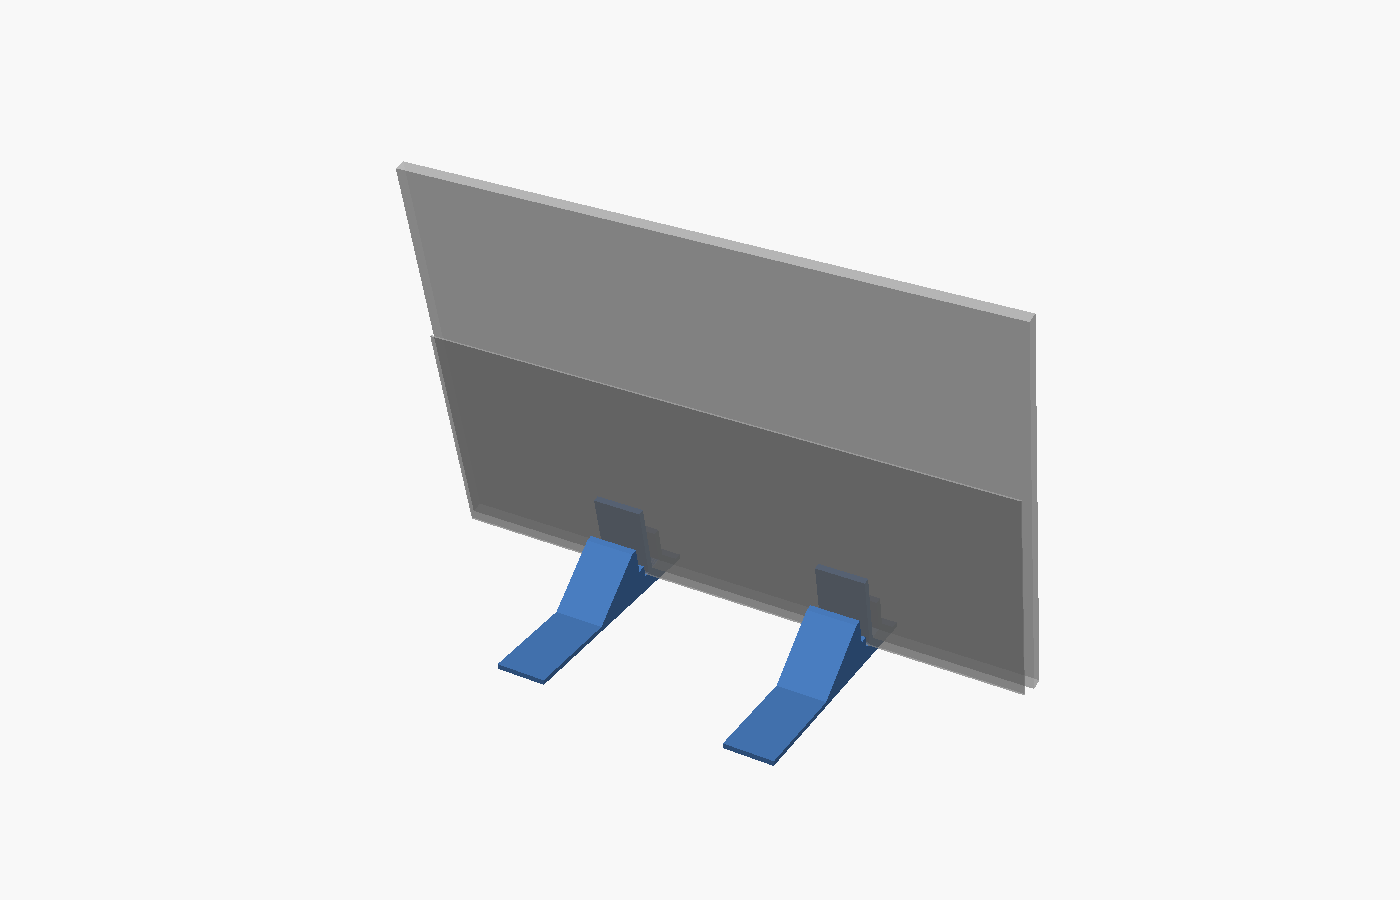
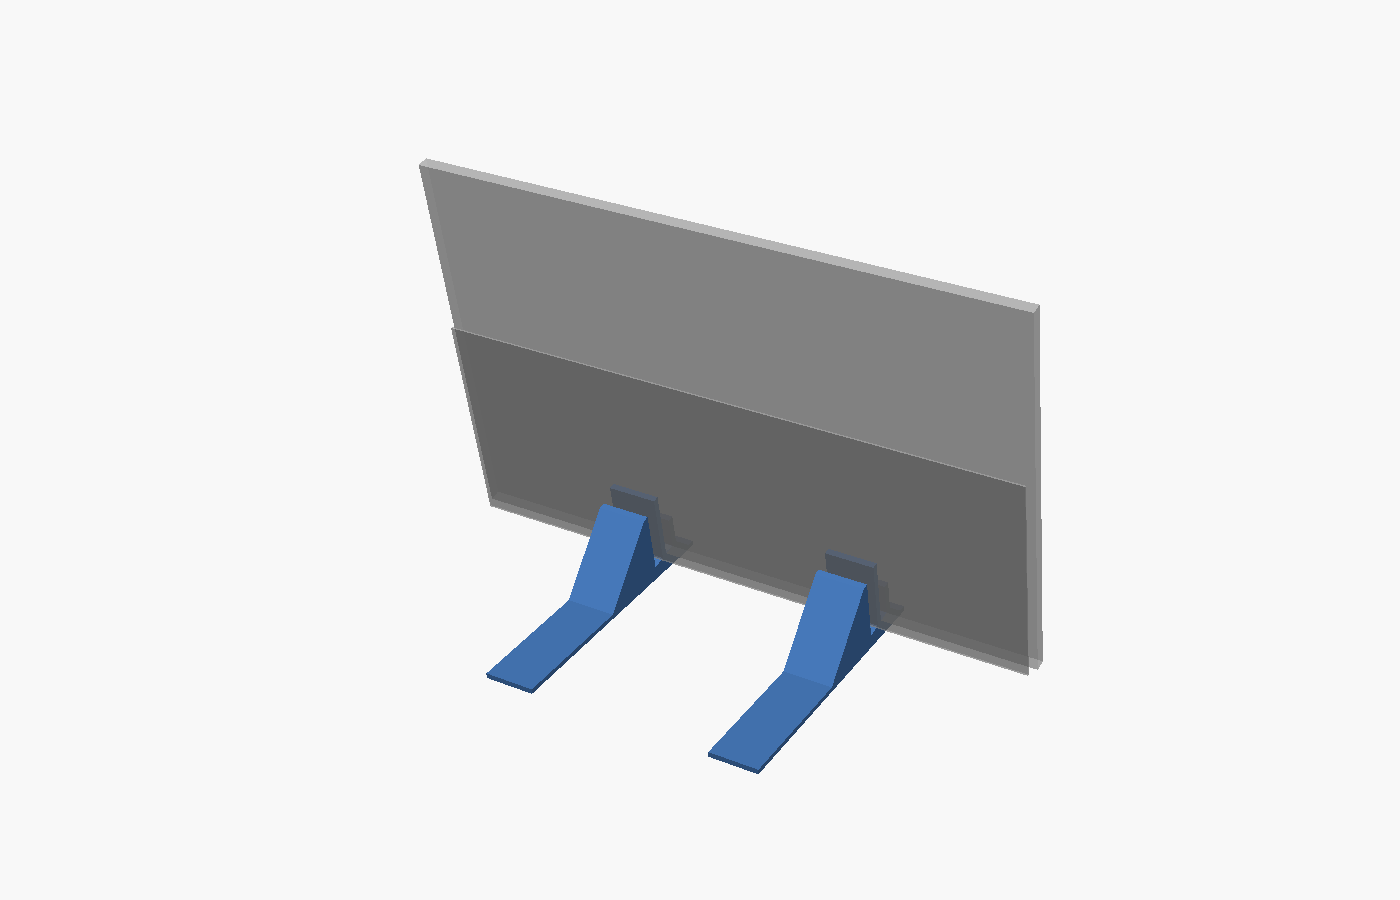
feat(stand): straight 40 mm board wall, wider slot, longer base
The board slot widens to 8.6 mm to clear the coils, so the stepped lip goes and one straight 40 mm rear wall is left. The base now reaches 150 mm behind the lid.

diff --git a/README.md b/README.md
@@ -64,7 +64,7 @@ Tune `fit`, `tol` and `insert_d` from the results.
 
 ## Interim stand
 
-`stand_shoe` (print 2): two small identical shoes that hold the bare lid upright and the board behind it until the case is printed (`stand` previews them with a ghost lid and board). The board sits as in the case: fin edge down so the exhaust points down, flat chip side toward the lid, heatsink side back, connectors at the top centre. Each shoe has two slots, leaning back `stand_tilt` (12°), with both bottom edges `stand_h` (12 mm) above the cardboard, kept low because the eDP cable is short. The lid's slot has a 20 mm front wall (`stand_grip`). A 45 mm wall (`stand_grip_back`) sits between the lid and the board: the lid leans on it, so the tall wall takes load off the lid's bottom edge. The board's slot has an 8 mm rear lip (`stand_board_lip`) that hugs only the bottom strip of the heatsink side; above it a stop steps back 5 mm to clear the coils and heatpipes and reaches 25 mm up the board (`stand_board_stop`). The base reaches 120 mm behind the lid, so the leaning lid and board don't tip it over backwards. Place the shoes towards the centre, where the board's bottom edge has no fins and the lid's bottom edge has no cables, and tape them onto cardboard. Each shoe is one side profile extruded 30 mm (145 × 55 × 30 mm): print it lying on the profile, no supports.
+`stand_shoe` (print 2): two small identical shoes that hold the bare lid upright and the board behind it until the case is printed (`stand` previews them with a ghost lid and board). The board sits as in the case: fin edge down so the exhaust points down, flat chip side toward the lid, heatsink side back, connectors at the top centre. Each shoe has two slots, leaning back `stand_tilt` (12°), with both bottom edges `stand_h` (12 mm) above the cardboard, kept low because the eDP cable is short. The lid's slot has a 20 mm front wall (`stand_grip`). A 45 mm wall (`stand_grip_back`) sits between the lid and the board: the lid leans on it, so the tall wall takes load off the lid's bottom edge. The board's slot is 8.6 mm wide (`stand_board_slot`), enough to clear the coils on the heatsink side, and its straight rear wall reaches 40 mm up the board (`stand_board_wall`): the board leans back onto its top. The base reaches 150 mm behind the lid, so the leaning lid and board don't tip it over backwards. Place the shoes towards the centre, where the board's bottom edge has no fins and the lid's bottom edge has no cables, and tape them onto cardboard. Each shoe is one side profile extruded 30 mm (175 × 55 × 30 mm): print it lying on the profile, no supports.
 
 ![stand](images/stand.png)
 
